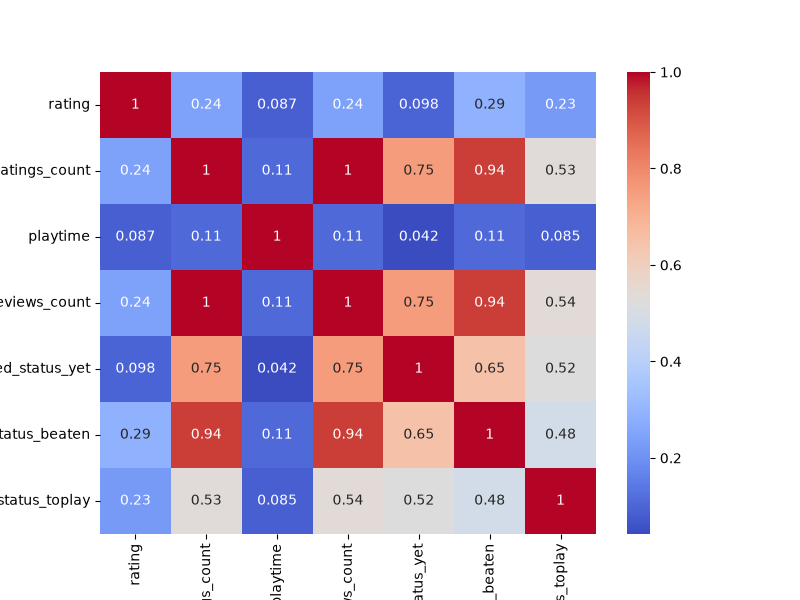
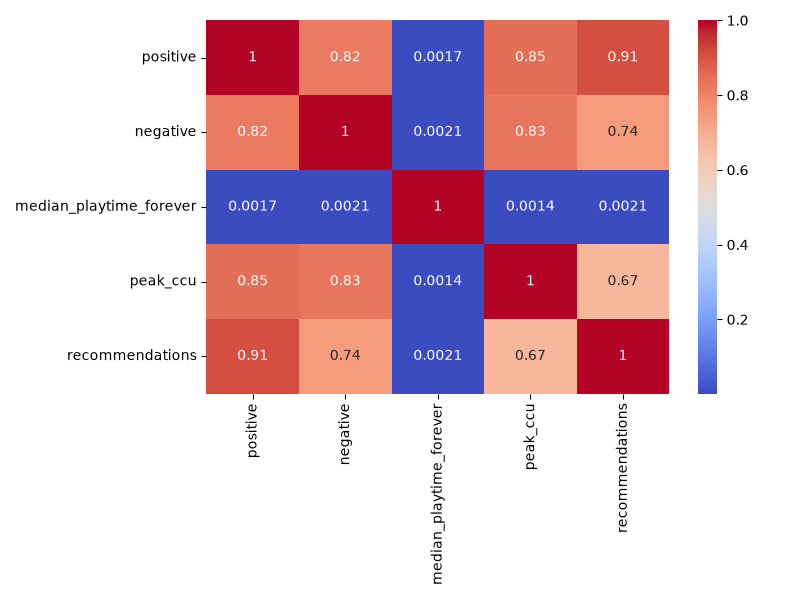
Refactor EDA visuals and add preprocessing
Rewrite EDA reporting to produce focused visualizations and richer business observations: add column_to_dict_converter to parse literal columns, generate separate plots (top genres, top played games, top categories, missing values) and update correlation selection and heatmap saving; remove the old combined eda_viz.png and replace with multiple PNGs. Update business_observation.md to reflect the new analyses. Change main to load steam_games.csv and comment out several older EDA calls. Add a minimal PreProcessor class skeleton (src/preprocessing.py). Also update the corr_heatmap image binary.

diff --git a/src/eda.py b/src/eda.py
@@ -1,6 +1,7 @@
 import pandas as pd
 import matplotlib.pyplot as plt
 import seaborn as sns
+import ast
 
 class EDA:
 
@@ -41,7 +42,7 @@ class EDA:
 
     def analyse_duplicate_data(self):
         duplicates = self.df[self.df.duplicated()]
-        print(duplicates)
+        print('\n',duplicates)
 
 
     def analyse_categorical_data(self):
@@ -59,7 +60,7 @@ class EDA:
 
     def analyse_target_variables(self):
 
-        cols = ['rating', 'ratings_count', 'metacritic', 'reviews_count']
+        cols = ['positive', 'negative', 'price', 'achievements', 'peak_ccu', 'average_playtime_forever']
 
         for col in cols:
             balance = self.df[col].value_counts(normalize=True)
@@ -71,88 +72,122 @@ class EDA:
 
 
     def correlation_matrix(self, path: str):
-        selected_cols = ['rating', 'ratings_count', 'playtime', 'reviews_count', 'added_status_yet', 'added_status_beaten', 'added_status_toplay']
+        selected_cols = ['positive', 'negative', 'median_playtime_forever', 'peak_ccu', 'genres', 'tags', 'recommendations']
         corr = self.df[selected_cols].corr(numeric_only=True)
         print(corr)
 
         plt.figure(figsize=(8, 6))
         sns.heatmap(corr, annot=True, cmap='coolwarm')
+        plt.tight_layout()
         plt.savefig(f'{path}/figures/corr_heatmap.png')
         plt.show()
 
 
+    def column_to_dict_converter(self, column_name: str) -> dict:
+        self.df[f'{column_name}_literal'] = self.df[column_name].apply(lambda x: tuple(ast.literal_eval(x)))
+        values = self.df[f'{column_name}_literal'].value_counts()
+
+        values_dict = {}
+        for all_values in values.index:
+            if isinstance(all_values, tuple):
+                for val in all_values:
+                    if not isinstance(val, dict):
+                        if val in values_dict:
+                            values_dict[val] += 1
+                        else:
+                            values_dict[val] = 1
+
+        print('\n', column_name)
+        print(values_dict)
+        return values_dict
+
+
     def business_observations_visualizations(self, path: str):
-        ratings = self.df['rating'].value_counts()
-        genres = self.df['genres'].value_counts().head(10)
-        missing_values = self.df.isnull().sum()
-        platforms = self.df['platforms'].value_counts()
 
-        separator = '||'
+        ## Key business observations for columns Tag, Developers, Publishers and Categories
+        tags = self.column_to_dict_converter('tags')
+        tags = dict(sorted(tags.items(), key=lambda x: x[1], reverse=True))
 
-        genres_dict = {}
-        for all_genres in genres.index:
-            if separator in all_genres:
-                genre = all_genres.split(separator)
-                for g in genre:
-                    if g in genres_dict:
-                        genres_dict[g] += genres[all_genres]
-                    else:
-                        genres_dict[g] = genres[all_genres]
+        developers = self.column_to_dict_converter('developers')
+        developers = dict(sorted(developers.items(), key=lambda x: x[1], reverse=True))
 
-        platforms_dict = {}
-        for plats in platforms.index:
-            if separator in plats:
-                plat = plats.split(separator)
-                for p in plat:
-                    if p in platforms_dict:
-                        platforms_dict[p] += platforms[plats]
-                    else:
-                        platforms_dict[p] = platforms[plats]
+        publishers = self.column_to_dict_converter('publishers')
+        publishers = dict(sorted(publishers.items(), key=lambda x: x[1], reverse=True))
 
+        categories = self.column_to_dict_converter('categories')
+        categories = dict(sorted(categories.items(), key=lambda x: x[1], reverse=True))
 
-        print(platforms_dict)
+        ##Visualization of Top 20 Genres with highest ratings (+ive or -ive)
+        ratings_by_genres = self.df[['genres', 'positive', 'negative']].copy()
+        ratings_by_genres['sum_of_all_ratings'] = ratings_by_genres['positive'] + ratings_by_genres['negative']
+        ratings_by_genres = ratings_by_genres.sort_values(by='sum_of_all_ratings', ascending=False)
+        ratings_by_genres['avg_ratings'] = round(100 * ratings_by_genres['positive'] / (ratings_by_genres['positive'] + ratings_by_genres['negative']), 2)
 
-        fig, axes = plt.subplots(2, 2, figsize=(25,25))
-        axes[0, 0].bar(ratings.index, ratings)
-        axes[0, 0].set_xlabel('Ratings')
-        axes[0, 0].set_ylabel('Counts')
-        axes[0, 0].set_title('Ratings Distribution')
+        ratings_by_genres['genres'] = ratings_by_genres['genres'].apply(lambda x: tuple(ast.literal_eval(x)))
+        ratings_by_genres = ratings_by_genres[ratings_by_genres['genres'].apply(lambda x: len(x) > 0 and not isinstance(x[0], dict))]
+        ratings_per_genre = ratings_by_genres.explode('genres').groupby('genres')['avg_ratings'].median().sort_values(ascending=False)
 
-        axes[0, 1].barh(list(genres_dict.keys()), list(genres_dict.values()))
-        axes[0, 1].set_xlabel('Counts')
-        axes[0, 1].set_ylabel('Genres')
-        axes[0, 1].tick_params(axis='y', labelsize=8)
-        axes[0, 1].set_title('Top 10 Genres')
-
-        axes[1, 0].barh(missing_values.index, missing_values)
-        axes[1, 0].set_xlabel('Count')
-        axes[1, 0].set_ylabel('Columns')
-        axes[1, 0].tick_params(axis='y', labelsize=8)
-        axes[1, 0].set_title('Missing Values Per Column')
-
-
-        axes[1, 1].barh(list(platforms_dict.keys()), list(platforms_dict.values()))
-        axes[1, 1].set_xlabel('Platforms')
-        axes[1, 1].set_ylabel('Count')
-        axes[1, 1].tick_params(axis='y', labelsize=6)
-        axes[1, 1].set_title('Platforms Distribution')
-
-        plt.grid(True)
-        plt.savefig(f'{path}/figures/eda_viz.png')
+        ax = ratings_per_genre.head(20).plot.bar()
+        ax.set_xlabel('Genres')
+        ax.set_ylabel('Average Ratings')
+        ax.set_title('Top Genres')
+        ax.tick_params(axis='x', labelsize=8)
+        plt.tight_layout()
+        plt.savefig(f'{path}/figures/EDA_Top_Genres.png')
         plt.show()
 
-        missing_values_sorted = missing_values.sort_values(ascending=False)
-        with open(f'{path}/reports/business_observation.md', 'w') as file:
+        ##Visualization of median playtime forever
+        playtime = self.df[['median_playtime_forever', 'name']].copy()
+        playtime = playtime.sort_values(by='median_playtime_forever', ascending=False).head(20)
+
+        plt.barh(playtime['name'], playtime['median_playtime_forever'])
+        plt.xlabel('Median Playtime')
+        plt.ylabel('Game')
+        plt.title('Top Played Games')
+        plt.tight_layout()
+        plt.savefig(f'{path}/figures/EDA_Top_PlayedGames.png')
+        plt.show()
+
+        #missing values
+        missing_values = self.df.isnull().sum().sort_values(ascending=False).head(10)
+        ax = missing_values.plot.barh()
+        ax.set_xlabel('Count')
+        ax.set_ylabel('Columns')
+        ax.set_title('Top 10 Missing Values Per Column')
+        plt.tight_layout()
+        plt.savefig(f'{path}/figures/EDA_Columns_Missing_Values.png')
+        plt.show()
+
+        #top categories
+        categories = dict(sorted(categories.items(), key=lambda x: x[1], reverse=True)[:20])
+        plt.barh(list(categories.keys()), list(categories.values()))
+        plt.xlabel('Categories')
+        plt.ylabel('Count')
+        plt.title('Top Categories')
+
+        plt.tight_layout()
+        plt.savefig(f'{path}/figures/EDA_Top_Categories.png')
+        plt.show()
+
+        with open(f'{path}/reports/business_observation.md', 'w', encoding='utf-8') as file:
             file.write(f"""
-A correlation matrix created for a few selected columns provides a great picture where reviews are very closely related to status_beaten, but also status_yet.
-On the other hand, playtime seems to have very less to do with ratings or even anything else.
 
-In other observations, the first figure in the eda_viz.png shows the ratings skewed to right with most ratings falling around {ratings.idxmax()} stars, while the lowest ratings around {ratings.idxmin()}.
+Some of the most common tags are as follows:
+{list(tags.keys())[:5]}
 
-In genres, {max(genres_dict, key=genres_dict.get)} turns out to be the most popular choice for developers and {min(genres_dict, key=genres_dict.get)} as the least.
+The most common developers on the list are:
+{list(developers.keys())[:5]}
 
-{max(platforms_dict, key=platforms_dict.get)} has been the most favourite choice of the developers to launch a game and {min(platforms_dict, key=platforms_dict.get)} has not seen to much of an action.
+While the most common publishers are:
+{list(publishers.keys())[:5]}
 
-Coming to the point of missing values, the 3 following have the most missing values, given with the missing values count:
-{missing_values_sorted.head(3)}
+A correlation matrix created for a few selected columns provides a great picture where ratings are closely associated with recommendations and peak CCU, but almost not at all with playtime.
+
+In other observations, the first figure in the visualization shows the top 20 genres, with the top genre containing {list(ratings_per_genre.keys())[0]} as it's keyword.
+
+In top played games, in the next visualization, {playtime['name'].iloc[0]} has the highest playtime at {playtime['median_playtime_forever'].iloc[0]}
+
+Coming to the point of missing values {missing_values.iloc[0]} has the highest missing values
+
+Lastly, the top categories are shows in the last visualization with, {next(iter(categories))} as the top one.
             """)

diff --git a/src/main.py b/src/main.py
@@ -5,18 +5,17 @@ from config import RAW_DATA_DIR, OUTPUT_DIR
 
 def main():
 
-    data_loader = DataLoader(RAW_DATA_DIR / 'games_raw_for_cleanup.csv')
+    data_loader = DataLoader(RAW_DATA_DIR / 'steam_games.csv')
     df = data_loader.load()
 
     data_profiler = DataProfiler()
     data_profiler.profile(df)
 
     eda = EDA(df)
-    eda.analyse_numeric_overview()
-    eda.analyse_missing_data()
-    eda.analyse_duplicate_data()
-    eda.analyse_categorical_data()
-    eda.analyse_target_variables()
+    # eda.analyse_numeric_overview()
+    # eda.analyse_missing_data()
+    # eda.analyse_duplicate_data()
+    # eda.analyse_target_variables()
     eda.correlation_matrix(str(OUTPUT_DIR))
     eda.business_observations_visualizations(str(OUTPUT_DIR))
     

diff --git a/src/preprocessing.py b/src/preprocessing.py
@@ -1,0 +1,5 @@
+import pandas as pd
+
+class PreProcessor:
+    def __init__(self, targetdf: pd.DataFrame):
+        self.df = targetdf

diff --git a/outputs/reports/business_observation.md b/outputs/reports/business_observation.md
@@ -1,16 +1,21 @@
 
-A correlation matrix created for a few selected columns provides a great picture where reviews are very closely related to status_beaten, but also status_yet.
-On the other hand, playtime seems to have very less to do with ratings or even anything else.
 
-In other observations, the first figure in the eda_viz.png shows the ratings skewed to right with most ratings falling around 4.0 stars, while the lowest ratings around 1.46.
+Some of the most common tags are as follows:
+['Singleplayer', 'Indie', 'Action', 'Casual', 'Adventure']
 
-In genres, Action turns out to be the most popular choice for developers and RPG as the least.
+The most common developers on the list are:
+['Tero Lunkka', 'ESAT', 'Square Enix', 'Valkeala Software', 'Jordan Freeman Group']
 
-PC has been the most favourite choice of the developers to launch a game and Atari Flashback has not seen to much of an action.
+While the most common publishers are:
+['Gamersky Games', 'PlayWay S.A.', 'WhisperGames', 'Gamirror Games', 'Plug In Digital']
 
-Coming to the point of missing values, the 3 following have the most missing values, given with the missing values count:
-metacritic     3942
-esrb_rating    3848
-website        2170
-dtype: int64
+A correlation matrix created for a few selected columns provides a great picture where ratings are closely associated with recommendations and peak CCU, but almost not at all with playtime.
+
+In other observations, the first figure in the visualization shows the top 20 genres, with the top genre containing 360 Video as it's keyword.
+
+In top played games, in the next visualization, Avem33 has the highest playtime at 3429544
+
+Coming to the point of missing values 132206 has the highest missing values
+
+Lastly, the top categories are shows in the last visualization with, Single-player as the top one.
             
